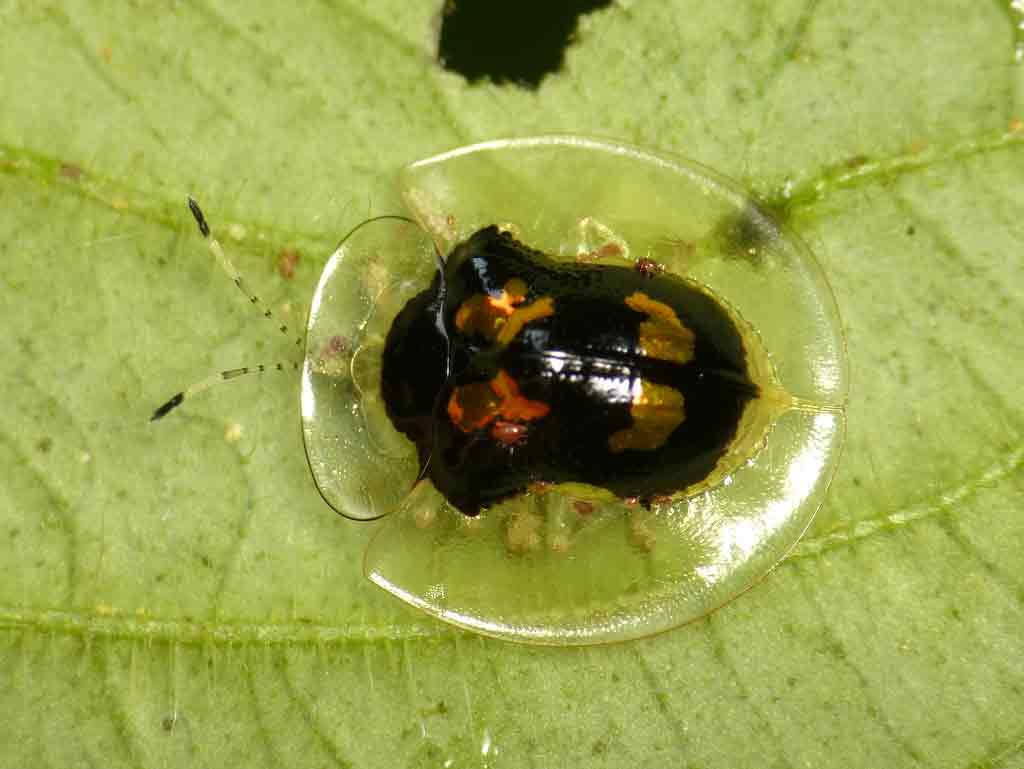
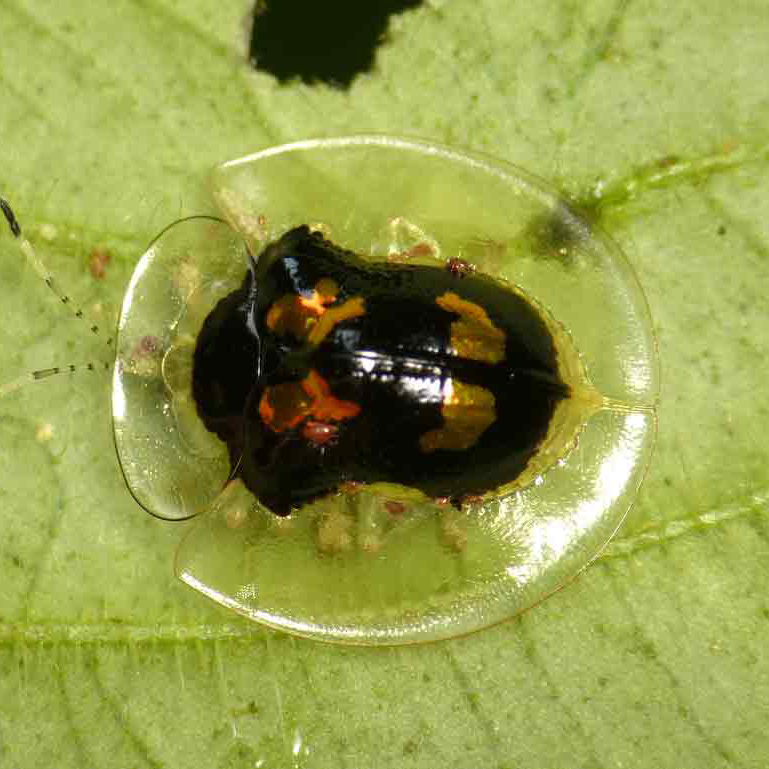
Added dung and tortoise images

diff --git a/css/main.css b/css/main.css
@@ -85,7 +85,7 @@ h3 {
 .antnestbeetle {
 	width: 50%;
 	float: left;
-	margin: 93px;
+	margin-top: 109px;
 	margin-left: 0;
 }
 
@@ -97,9 +97,27 @@ h3 {
 
 }
 
+.stag {
+	color: white;
+	font-size: 1.5em;
+	position: absolute;
+	margin: 58% 72%;
+
+}
+
 .stagbeetle {
 	width: 50%;
 	float: right;
-	margin: 93px;
+	margin-top: 109px;
 	margin-right: 0;
+}
+
+.dungbeetle {
+	width: 50%;
+	margin-left: 0;
+}
+
+.tortoisebeetle {
+	width: 50%;
+	float: right;
 }

diff --git a/index.html b/index.html
@@ -30,6 +30,11 @@
 	<img src="images/ant-nest-beetle.jpg" class="antnestbeetle" alt="">
 	<p id="antnest" class="antnest">Ant Nest</p>
 	<img src="images/stag-beetle.jpg" class="stagbeetle" alt="">
+	<p id="stag" class="stag">Stag</p>
+</div>
+<div>
+	<img src="images/dung-beetle.jpg" id="dung" class="dungbeetle" alt="">
+	<img src="images/tortoise-beetle.jpg" id="tortoise" class="tortoisebeetle" alt="">
 </div>
 </main>
 
